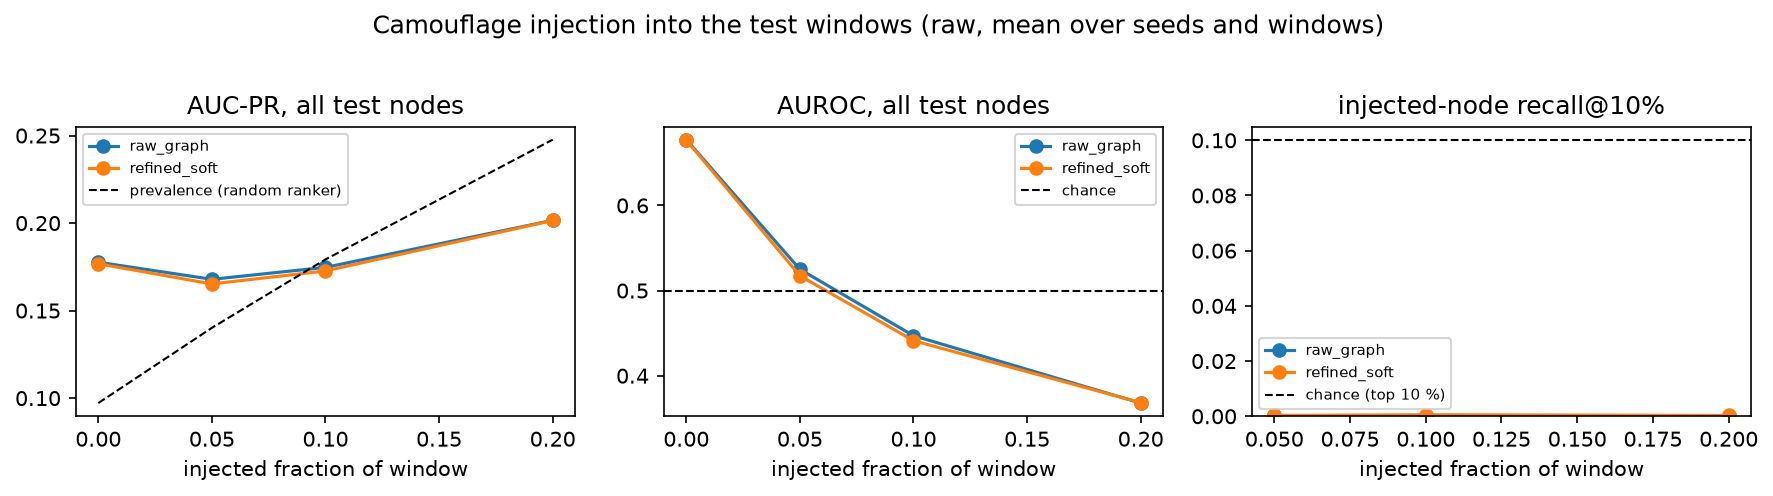
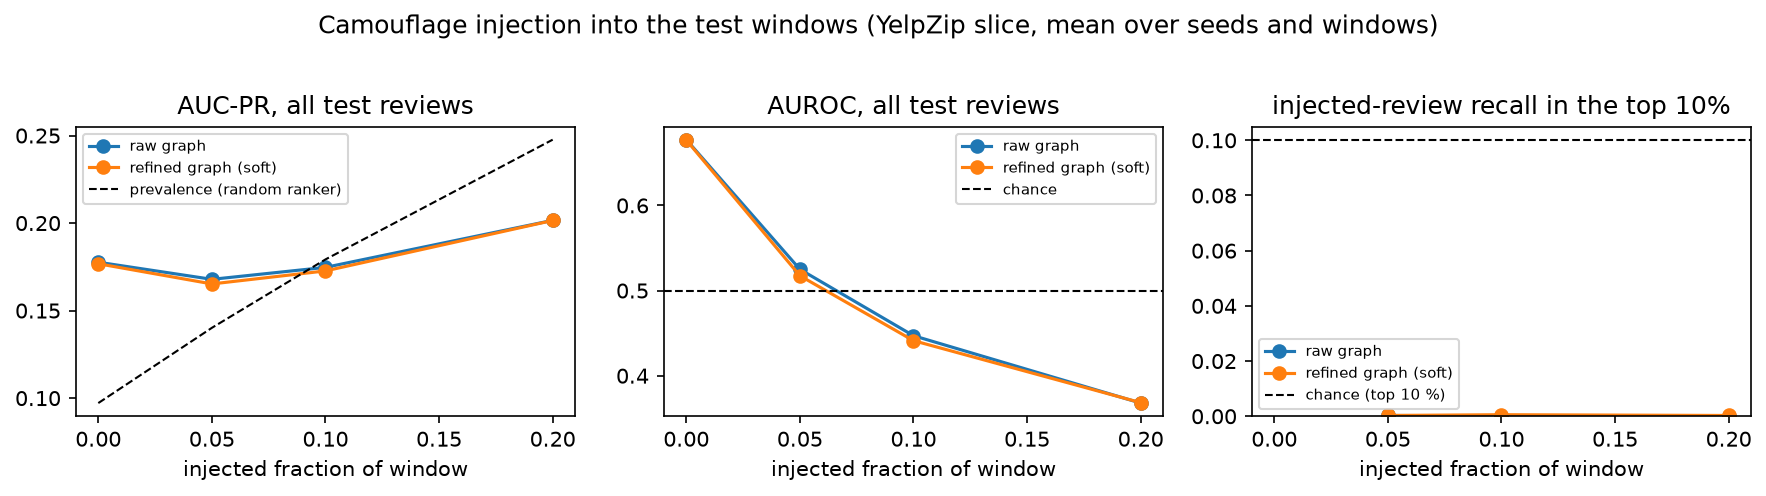
Report figures, README and design log match the final report
- Figures used in the report: reader-facing labels (03_eda.py, 10_figures.py), the drift figure in
  threshold units with the degradation line and same-window control, the headline figure as one row,
  and the new deployment-loop figure (13_process_figure.py). Regenerated PNGs committed.
- Makefile: `figures` and `raw-all` also draw the deployment-loop figure; graph-all comment updated.
- README: intro now describes the YelpZip text track as the headline (it still said every result was
  graph-only), plus a map from each report table and figure to its output file and script.
- D23 in docs/decisions.md and AGENTS.md: the report's more cautious reading of the YelpZip monitor
  (validation window falsely flagged, LLM fields alone would also alarm, AUROC label for windows 4-5),
  the per_class quota, the promotion guard, and the corrected LLM cache counts.

diff --git a/scripts/10_figures.py b/scripts/10_figures.py
@@ -45,22 +45,36 @@ def headline(tag):
         return
     df = df[df["fold"].str.startswith("test_w")]
     df["window"] = df["fold"].str.split("_w").str[1].astype(int)
-    models = sorted(df["model"].unique())
-    fig, axes = plt.subplots(1, len(models), figsize=(4.2 * len(models), 3.4), sharey=True)
-    for ax, m in zip(np.atleast_1d(axes), models):
+    order = ["catboost", "wsage", "care", "ae"]
+    # the autoencoder uses no graph, so raw and refined coincide; it is left to the results table
+    models = [m for m in order if m in set(df["model"]) and m != "ae"] + sorted(set(df["model"]) - set(order))
+    ncol = min(len(models), 3)
+    nrow = int(np.ceil(len(models) / ncol))
+    fig, axes = plt.subplots(nrow, ncol, figsize=(4.2 * ncol, 2.9 * nrow), squeeze=False)
+    for ax, m in zip(axes.ravel(), models):
         for gname, sub in df[df["model"] == m].groupby("graph"):
             s = sub.groupby("window")["auc_pr"].agg(["mean", "std"])
-            ax.errorbar(s.index, s["mean"], yerr=s["std"].fillna(0), marker="o", capsize=3, label=gname)
-        ax.set_title(m); ax.set_xlabel("test window"); ax.set_ylabel("AUC-PR")
-        ax.legend(fontsize=8)
+            ax.errorbar(s.index, s["mean"], yerr=s["std"].fillna(0), marker="o", ms=4, capsize=3, label=GRAPH_NAMES.get(gname, gname))
+        ax.set_title(MODEL_NAMES.get(m, m)); ax.set_xlabel("test window"); ax.set_ylabel("AUC-PR")
+        ax.set_xticks(sorted(df["window"].unique())); ax.grid(alpha=0.3)
+    for ax in axes.ravel()[len(models):]:
+        ax.axis("off")
+    h, lab = axes.ravel()[0].get_legend_handles_labels()
+    fig.legend(h, lab, loc="lower center", ncol=len(lab), fontsize=8, bbox_to_anchor=(0.5, -0.08))
     proto = {"waves": "random arrival waves"}.get(df["protocol"].iloc[0], "temporal windows")
-    fig.suptitle(f"AUC-PR per test window, {' vs '.join(sorted(df['graph'].unique()))} ({tag}: {proto}, mean ± std over seeds)", y=1.02)
+    fig.suptitle(f"{DATASET.get(tag, tag)}: test AUC-PR per window, raw vs refined graphs ({proto}, mean ± std over seeds)", fontsize=10)
     fig.tight_layout(); fig.savefig(FIG / f"fig_headline_{tag}.png", dpi=150, bbox_inches="tight"); plt.close(fig)
 
 
 SCORER_COLORS = {"feature": "#1f77b4", "cosine": "#ff7f0e", "rur_profile": "#2ca02c"}
 SCORER_LABEL_OFFSET = {"feature": (-8, 8, "right"), "cosine": (8, -12, "left"), "rur_profile": (8, -12, "left")}
 MODEL_NAMES = {"wsage": "WeightedSAGE", "catboost": "CatBoost", "care": "CARE-static", "ae": "Autoencoder"}
+# reader-facing names for figure titles and legends (no internal tags)
+DATASET = {"raw": "YelpZip slice", "mat": "YelpChi.mat", "mat_waves": "YelpChi.mat, arrival waves",
+           "mat_lvl0.2": "YelpChi.mat, 20% injection"}
+GRAPH_NAMES = {"raw_graph": "raw graph", "refined_soft": "soft", "refined_softrank": "softrank",
+               "refined_hard_tau0.5": "hard (τ = 0.5)"}
+SCORER_NAMES = {"feature": "feature link model", "cosine": "feature cosine", "rur_profile": "user profile"}
 
 
 def scorer_curve(tag):
@@ -164,9 +178,10 @@ def scorer_bar(tag="mat_waves", text_source="raw"):
             ax.plot(r.auc_global, r.mean_diff, marker=mk, ms=8, mfc="white", mec=c, mew=1.5, ls="none")
             ax.errorbar(r.auc_fraud_centred, r.mean_diff, yerr=[[r.mean_diff - r.ci95_low], [r.ci95_high - r.mean_diff]],
                         marker=mk, ms=8, color=c, capsize=3, ls="none")
-            below = r.scorer == "rur_profile"
-            ax.annotate(r.scorer, (r.auc_fraud_centred, r.ci95_low if below else r.ci95_high),
-                        xytext=(0, -4 if below else 4), textcoords="offset points", fontsize=7, ha="center",
+            # label placement: feature to the upper left, cosine to the upper right, user profile below right
+            dx, ha, below = {"feature": (-3, "right", False), "cosine": (3, "left", False)}.get(r.scorer, (4, "left", True))
+            ax.annotate(SCORER_NAMES.get(r.scorer, r.scorer), (r.auc_fraud_centred, r.ci95_low if below else r.ci95_high),
+                        xytext=(dx, -4 if below else 4), textcoords="offset points", fontsize=7, ha=ha,
                         va="top" if below else "bottom")
             rows.append({"model": m, "scorer": r.scorer, "auc_global": r.auc_global,
                          "auc_fraud_centred": r.auc_fraud_centred, "gain": r.mean_diff,
@@ -180,13 +195,13 @@ def scorer_bar(tag="mat_waves", text_source="raw"):
         ax.axhline(0, color="grey", ls="--", lw=1)
         ax.grid(alpha=0.3, lw=0.5)
         ax.set_title(MODEL_NAMES.get(m, m))
-        ax.set_xlabel("edge AUC on R-S-R / R-T-R, edges touching a fraud node")
+        ax.set_xlabel("fraud-centred edge AUC on R-S-R / R-T-R")
         ax.set_ylabel("AUC-PR gain over raw graph")
     handles = [Line2D([], [], color="k", lw=2, marker="o", label="noisy oracle (simulated), 95% CI"),
                Line2D([], [], color="grey", marker="s", ls="none", label="real scorer at fraud-centred AUC"),
                Line2D([], [], color="grey", marker="s", mfc="white", ls="none", label="same scorer at global AUC")]
     np.atleast_1d(axes)[0].legend(handles=handles, fontsize=7, loc="upper left", bbox_to_anchor=(0.1, 1.0))
-    fig.suptitle(f"Reweighting gain vs edge quality around fraud nodes ({tag}, paired 95% CI over seeds)", y=1.02)
+    fig.suptitle(f"Re-weighting gain vs edge AUC around fraud reviews ({DATASET.get(tag, tag)}, paired 95% CI over seeds)", y=1.02)
     fig.tight_layout(); fig.savefig(FIG / f"fig_scorer_bar_{tag}.png", dpi=150, bbox_inches="tight"); plt.close(fig)
 
     out = pd.DataFrame(rows)
@@ -227,18 +242,32 @@ def drift(tag):
     m = read(f"drift_monitor_{tag}.csv")
     if m is None:
         return
+    # A window is flagged when PSI or KS exceeds its calibrated threshold, so plot each statistic as a
+    # multiple of its threshold (1 = flag line); the same-window control is dashed when it exists.
+    sw = read(f"drift_monitor_{tag}_samewin.csv")
     fig, ax = plt.subplots(figsize=(7, 3.4)); ax2 = ax.twinx()
-    ax.plot(m["window"], m["psi_mean"], marker="o", color="C0", label=f"PSI, {m['monitor'].iloc[0]} (label-free)")
-    if "psi_thr" in m:
-        ax.plot(m["window"], m["psi_thr"], color="C0", ls=":", lw=1, label="calibrated threshold")
-    ax2.plot(m["window"], m["auc_pr"], marker="s", color="C3", label="incumbent AUC-PR (labelled)")
+    ax.plot(m["window"], m["ks_max"] / m["ks_thr"], marker="o", color="C0", label="KS / threshold")
+    # validation AUC-PR of the comparator (WeightedSAGE, raw graph) defines the degradation line
+    res = read(f"results_{tag}_raw_graph.csv")
+    val = res[(res["model"] == "wsage") & (res["fold"] == "val")]["auc_pr"].mean() if res is not None else np.nan
+    ax.plot(m["window"], m["psi_mean"] / m["psi_thr"], marker="^", color="C2", label="PSI / threshold")
+    if sw is not None:
+        ax.plot(sw["window"], sw["ks_max"] / sw["ks_thr"], marker="o", color="C0", ls="--", alpha=0.6,
+                label="KS / threshold, same-window control")
+    ax.axhline(1.0, color="k", ls=":", lw=1, label="flag line")
+    ax2.plot(m["window"], m["auc_pr"], marker="s", color="C3", label="WeightedSAGE AUC-PR (labelled)")
+    if np.isfinite(val):
+        ax2.plot([m["window"].min()], [val], marker="s", mfc="white", color="C3", ls="none", label="WeightedSAGE validation AUC-PR")
+        ax2.axhline(0.9 * val, color="C3", ls=":", lw=1.2, label="degradation line: 90% of validation")
     for w, a in zip(m["window"], m["alarm"]):
         if a:
-            ax.axvline(w, color="k", alpha=0.15, lw=6)
-    ax.set_xlabel("window"); ax.set_ylabel("PSI"); ax2.set_ylabel("AUC-PR")
+            ax.axvline(w, color="k", alpha=0.12, lw=8)
+    ax.set_xlabel("window (3 = validation, 4-7 = test)"); ax.set_ylabel("statistic / threshold"); ax2.set_ylabel("AUC-PR")
+    ax.set_xticks(m["window"])
     h1, l1 = ax.get_legend_handles_labels(); h2, l2 = ax2.get_legend_handles_labels()
-    ax.legend(h1 + h2, l1 + l2, fontsize=8, loc="lower left"); ax.set_title("Drift monitor vs labelled comparator (shaded = alarm)")
-    fig.tight_layout(); fig.savefig(FIG / f"fig_drift_{tag}.png", dpi=150); plt.close(fig)
+    fig.legend(h1 + h2, l1 + l2, fontsize=7, loc="lower center", ncol=3, bbox_to_anchor=(0.5, -0.13))
+    ax.set_title(f"{DATASET.get(tag, tag)}: text-consistency monitor vs labelled AUC-PR (shaded = alarm)", fontsize=9)
+    fig.tight_layout(); fig.savefig(FIG / f"fig_drift_{tag}.png", dpi=150, bbox_inches="tight"); plt.close(fig)
 
 
 def selftrain(tag):
@@ -293,17 +322,19 @@ def adversarial(tag, prefix="adversarial", by="graph"):
     prev = d.assign(prev=d["n_pos"] / d["n"]).groupby("level")["prev"].mean() if d is not None and {"n_pos", "n"} <= set(d.columns) else None
     fig, axes = plt.subplots(1, 3, figsize=(12, 3.2))
     for gname, sub in s.groupby(by):
-        axes[0].plot(sub["level"], sub["auc_pr"], marker="o", label=gname)
-        axes[1].plot(sub["level"], sub["auroc"], marker="o", label=gname)
-        axes[2].plot(sub["level"], sub["injected_recall"], marker="o", label=gname)
+        lab = {"raw_graph": "raw graph", "refined_soft": "refined graph (soft)"}.get(gname, MODEL_NAMES.get(gname, gname))
+        axes[0].plot(sub["level"], sub["auc_pr"], marker="o", label=lab)
+        axes[1].plot(sub["level"], sub["auroc"], marker="o", label=lab)
+        axes[2].plot(sub["level"], sub["injected_recall"], marker="o", label=lab)
     if prev is not None:
         axes[0].plot(prev.index, prev.values, "k--", lw=1, label="prevalence (random ranker)")
     axes[1].axhline(0.5, color="k", ls="--", lw=1, label="chance"); axes[2].axhline(0.10, color="k", ls="--", lw=1, label="chance (top 10 %)")
-    axes[0].set_title("AUC-PR, all test nodes"); axes[1].set_title("AUROC, all test nodes"); axes[2].set_title("injected-node recall@10%")
+    axes[0].set_title("AUC-PR, all test reviews"); axes[1].set_title("AUROC, all test reviews"); axes[2].set_title("injected-review recall in the top 10%")
     axes[2].set_ylim(bottom=0)
+    lo, hi = s["level"].min(), s["level"].max()
     for ax in axes:
-        ax.set_xlabel("injected fraction of window"); ax.legend(fontsize=7)
-    fig.suptitle(f"Camouflage injection into the test windows ({tag}, mean over seeds and windows)", y=1.02)
+        ax.set_xlabel("injected fraction of window"); ax.legend(fontsize=7); ax.set_xlim(lo - 0.01, hi + 0.01)
+    fig.suptitle(f"Camouflage injection into the test windows ({DATASET.get(tag, tag)}, mean over seeds and windows)", y=1.02)
     fig.tight_layout(); fig.savefig(FIG / f"fig_{prefix}_{tag}.png", dpi=150, bbox_inches="tight"); plt.close(fig)
 
 
@@ -351,10 +382,10 @@ def graph_loop_rounds(tag):
         axes[0].plot(s.index, s["pos"], marker="o", label=v); axes[1].plot(s.index, s["rec"], marker="o", label=v)
     axes[0].axhline(r["prior"].mean(), color="k", ls="--", lw=1, label=f"training prior ({r['prior'].mean():.3f})")
     axes[0].set_title("positive share of the pseudo-labelled set"); axes[0].set_ylabel("share"); axes[0].set_ylim(0, None)
-    axes[1].set_title("minority recall on the probe labels"); axes[1].set_ylabel("recall at the prior's top-k")
+    axes[1].set_title("minority recall on the probe labels"); axes[1].set_ylabel("fraud recall in top k (k = prior × probe size)")
     for ax in axes:
         ax.set_xlabel("self-training round"); ax.grid(alpha=0.3, lw=0.5); ax.legend(fontsize=7)
-    fig.suptitle(f"Does confidence-based self-training drift toward the normal class? ({tag}, attack scenario)", y=1.02)
+    fig.suptitle(f"Does confidence-based self-training drift toward the normal class? ({DATASET.get(tag, tag)})", y=1.02)
     fig.tight_layout(); fig.savefig(FIG / f"fig_graph_loop_rounds_{tag}.png", dpi=150, bbox_inches="tight"); plt.close(fig)
 
 

diff --git a/scripts/13_process_figure.py b/scripts/13_process_figure.py
@@ -1,0 +1,51 @@
+"""Draw the deployment loop used in report section 4.5 (no data; a schematic of the pipeline in
+src/camo/drift and src/camo/selftrain). Writes outputs/figures/fig_process.png."""
+from __future__ import annotations
+
+import matplotlib
+
+matplotlib.use("Agg")
+import matplotlib.pyplot as plt
+from _common import ROOT
+from matplotlib.patches import FancyArrowPatch, FancyBboxPatch
+
+STEPS = [
+    ("Score new reviews", "deployed model on the\ncurrent graph"),
+    ("Monitor (label-free)", "PSI / KS of text\nconsistency vs calibrated\nthresholds"),
+    ("Alarm", "2 flagged windows\nin a row"),
+    ("Analyst labels", "100 probe reviews\nevery window"),
+    ("Challenger", "retrain with quota-\nbased pseudo-labels;\nbias audit"),
+    ("Promotion guard", "promote only if it wins\nin ≥ 90% of bootstrap\nresamples of the probe"),
+]
+
+
+def main():
+    # two rows read as a cycle: top row left to right, bottom row right to left, back up to the start
+    fig, ax = plt.subplots(figsize=(7.2, 3.3))
+    ax.set_xlim(0, 3); ax.set_ylim(0, 2.05); ax.axis("off")
+    w, h = 0.8, 0.72
+    pos = [(0, 1), (1, 1), (2, 1), (2, 0), (1, 0), (0, 0)]   # (column, row) for each step
+    col = "#33507a"
+    for i, ((title, body), (c, r)) in enumerate(zip(STEPS, pos)):
+        x, y = c + 0.1, r + 0.18
+        ax.add_patch(FancyBboxPatch((x, y), w, h, boxstyle="round,pad=0.02",
+                                    fc="#fdf1e6" if i == 3 else "#eef3fb", ec=col, lw=1.2))
+        ax.text(x + w / 2, y + h - 0.16, f"{i + 1}. {title}", ha="center", va="center", fontsize=9, weight="bold")
+        ax.text(x + w / 2, y + 0.26, body, ha="center", va="center", fontsize=7.8)
+    arrow = dict(arrowstyle="-|>", mutation_scale=12, color=col, lw=1.2)
+    for c in (0, 1):                                   # top row, left to right
+        ax.add_patch(FancyArrowPatch((c + 0.9, 1.54), (c + 1.1, 1.54), **arrow))
+    ax.add_patch(FancyArrowPatch((2.5, 1.16), (2.5, 0.92), **arrow))   # alarm -> analyst labels
+    for c in (2, 1):                                   # bottom row, right to left
+        ax.add_patch(FancyArrowPatch((c + 0.1, 0.54), (c - 0.1, 0.54), **arrow))
+    ax.add_patch(FancyArrowPatch((0.5, 0.92), (0.5, 1.16), **arrow))   # promotion -> scoring
+    ax.text(0.53, 1.04, "promoted model replaces the incumbent", ha="left", va="center", fontsize=7.3, style="italic")
+    ax.text(2.47, 1.04, "alarm uses the labels so far", ha="right", va="center", fontsize=7.3, style="italic")
+    fig.tight_layout()
+    out = ROOT / "outputs" / "figures" / "fig_process.png"
+    fig.savefig(out, dpi=200, bbox_inches="tight"); plt.close(fig)
+    print(out)
+
+
+if __name__ == "__main__":
+    main()

diff --git a/scripts/03_eda.py b/scripts/03_eda.py
@@ -20,6 +20,8 @@ TAB = ROOT / "outputs" / "tables"
 FIG = ROOT / "outputs" / "figures"
 
 
+REL_NAMES = {"rur": "R-U-R", "rsr": "R-S-R", "rtr": "R-T-R"}
+
 def main():
     args = parser(__doc__).parse_args()
     cfg = load_config("base")
@@ -43,10 +45,12 @@ def main():
     fig, axes = plt.subplots(1, len(g.edges), figsize=(4 * len(g.edges), 3.2), sharey=True)
     for ax, (r, e) in zip(np.atleast_1d(axes), g.edges.items()):
         h = node_homophily(e, g.y, n)
-        for c, name in [(0, "legit"), (1, "fraud")]:
+        for c, name in [(0, "genuine"), (1, "fraud")]:
             vals = h[(g.y == c) & ~np.isnan(h)]
             ax.hist(vals, bins=20, range=(0, 1), density=True, alpha=0.6, label=f"{name} (n={vals.size})")
-        ax.set_title(f"{r.upper()}: node homophily"); ax.set_xlabel("fraction of same-label neighbours")
+        ax.set_title(f"{REL_NAMES.get(r, r.upper())}: node homophily"); ax.set_xlabel("share of same-label neighbours")
+        if ax is np.atleast_1d(axes)[0]:
+            ax.set_ylabel("density of reviews")
         ax.legend(fontsize=8)
     fig.tight_layout(); fig.savefig(FIG / f"eda_homophily_{tag}.png", dpi=150); plt.close(fig)
 
@@ -54,11 +58,11 @@ def main():
     fig, axes = plt.subplots(1, len(g.edges), figsize=(4 * len(g.edges), 3.2))
     for ax, (r, e) in zip(np.atleast_1d(axes), g.edges.items()):
         deg = np.bincount(e[0], minlength=n) + np.bincount(e[1], minlength=n)
-        for c, name in [(0, "legit"), (1, "fraud")]:
+        for c, name in [(0, "genuine"), (1, "fraud")]:
             d = np.sort(deg[g.y == c])
             ccdf = 1 - np.arange(d.size) / d.size
             ax.loglog(d + 1, ccdf, label=name)
-        ax.set_title(f"{r.upper()} degree CCDF"); ax.set_xlabel("degree + 1"); ax.legend(fontsize=8)
+        ax.set_title(f"{REL_NAMES.get(r, r.upper())} degree CCDF"); ax.set_xlabel("degree + 1"); ax.legend(fontsize=8)
     fig.tight_layout(); fig.savefig(FIG / f"eda_degree_{tag}.png", dpi=150); plt.close(fig)
 
     # 4. temporal: reviews and fraud per equal-count window (rebuilt graph only)

diff --git a/README.md b/README.md
@@ -3,21 +3,31 @@
 NUS BT4012 Fraud Analytics, AY2026/27 Sem 1, **Group 05**
 Lin Yushan Edison · Melody Goh Xueni · Rohan Jaggi · Wong Yeow Kang
 
-Fraudsters camouflage by linking to legitimate accounts so that GNN neighbourhood averaging hides
-them. On the public YelpChi graph (`YelpChi.mat`, CARE-GNN), with nodes arriving in random waves and
-fraud nodes injected with camouflaging links, we ask two questions:
+Fake reviews hide in a review graph: most of their neighbours are genuine, so a graph model that
+averages over neighbours makes them look genuine (camouflage). On real review text and dates we test
+whether an LLM can repair the graph, whether text can warn of drift without labels, whether
+label-scarce self-training collapses toward the genuine class, and what a deliberate camouflage attack
+defeats.
 
-1. **How good must a label-free edge scorer be before repairing the graph pays?** A noisy-oracle curve
-   sets the bar (gains from edge AUC ~0.6–0.7), fraud-centred edge AUC is the right yardstick, and none
-   of our label-free scorers clears it on this graph.
-2. **Can a label-free drift monitor and label-scarce self-training respond to camouflage without
-   collapsing toward the normal class?** At 20 % injection: no false alarms on clean waves, an alarm one
-   wave after the attack, and +0.03 AUC-PR over a retrained no-pseudo-label control for the
-   class-balanced variants, while naive self-training's pseudo-labels collapse toward the legit class.
+**Data.** Headline: a 71-restaurant slice of YelpZip (Rayana & Akoglu 2015; 47,532 reviews, 10.2 %
+filtered as fraud) with real text and dates, split into eight equal-count time windows. Supporting:
+the public YelpChi graph (`YelpChi.mat`, CARE-GNN), which has no text or dates, under random arrival
+waves. The proposal's YelpChi raw text release could not be obtained, so the text track runs on its
+sibling release YelpZip (`docs/decisions.md` D18-D20).
 
-The proposal planned LLM text evidence from the raw reviews (Rayana & Akoglu 2015); that release is no
-longer obtainable, so every reported result is graph-only (`docs/decisions.md` D18). The text pipeline
-is kept and runs on a synthetic fixture.
+**Findings** (report Section 6.1; numbers in `outputs/tables/`):
+
+1. Re-weighting edges with a distilled LLM scorer gives CatBoost a small gain that holds across seeds
+   (+0.005 AUC-PR) and none for the GNNs, because the scorer is at chance around fraud reviews
+   (fraud-centred edge AUC 0.44-0.50); simulated scorers on `YelpChi.mat` put the bar at about 0.6.
+2. A label-free text-consistency monitor alarms in all four degraded test windows (from window 5 once
+   graph growth is controlled for), but the one healthy window we could check was also flagged, and a
+   monitor on the LLM fields alone would have fired too (D23).
+3. Naive confidence-based self-training collapses toward the genuine class (0.07 % fraud pseudo-labels
+   against a 10.5 % prior); fixing the fraud share at the prior prevents it. On YelpZip no variant beats
+   a no-pseudo-label control, since even true labels add only +0.018 AUC-PR.
+4. Injected camouflage (edited genuine text posted from established genuine accounts) defeats every
+   label-free component; a model trained with the injected reviews' labels catches it.
 
 Repo: https://github.com/ykwong2002/bt4012-adaptive-fraud-detection
 
@@ -54,7 +64,7 @@ incomplete), about 3 h on a laptop CPU. Needs the raw release under `data/raw/ye
 | drift monitor (+ same-window control) | `uv run python scripts/07_drift.py --source raw [--same-window]` | `drift_*_raw*.csv` |
 | alarm-triggered self-training + bias audit, raw and refined graph | `uv run python scripts/08_selftrain.py --source raw [--weights data/processed/edge_scores_raw.npz]` | `selftrain_*_raw_*.csv` |
 | camouflage injection with recovery | `uv run python scripts/09_adversarial.py --source raw --recover` | `adversarial_*_raw.csv` |
-| paired intervals; figures | `uv run python scripts/12_stats.py --tag raw`, `10_figures.py --tag raw` | `stats_*_raw*.csv`, `outputs/figures/fig_*_raw*.png` |
+| paired intervals; figures | `uv run python scripts/12_stats.py --tag raw`, `10_figures.py --tag raw`, `13_process_figure.py` | `stats_*_raw*.csv`, `outputs/figures/fig_*_raw*.png`, `fig_process.png` |
 | operating point per window: reviews flagged, fraud caught, reviews checked per fraud found | `uv run python scripts/14_business.py` | `business_raw.csv` |
 
 **YelpChi graph-only track** (supporting, D11–D17): `make graph-all` runs every step below in order
@@ -75,8 +85,36 @@ Tables land in `outputs/tables/`. Every script writes `outputs/runs/<name>/run.j
 config hash, seed and wall time. `make all SMOKE=1` runs the pipeline on a 2k-node subsample in minutes.
 
 Not part of the reported results: `scripts/09b_graph_adversarial.py` (static injection into test waves,
-`make graph-adversarial`). `make all SMOKE=1 --mock` exercises the text track on the synthetic fixture
-without the raw files or an API key.
+`make graph-adversarial`). `uv run python scripts/04_llm_score.py --mock` exercises the text track's LLM step on the synthetic
+fixture without the raw files or an API key.
+
+## Where each report table and figure comes from
+
+| report item | output | script |
+|---|---|---|
+| Table 1 (dataset summary) | `eda_summary_raw.csv`, `eda_summary_mat.csv` | `03_eda.py` |
+| Table 2 (variables) | `eda_features_raw.csv`, `variables_raw.csv` | `03_eda.py`, `03b_variables.py` |
+| Table 3 (time windows) | `eda_windows_raw.csv` | `03_eda.py` |
+| Table 4 (raw vs refined graph) | `results_raw_*_summary.csv`, `stats_rewiring_raw.csv` | `06_train.py`, `12_stats.py` |
+| Table 5 (edge scorer quality) | `edge_auc_centred_raw.csv` | `05c_edge_diagnostics.py` |
+| Section 5.1 pair analysis | `distil_metrics_raw.csv`, `pair_case_study_*_raw.csv` | `05_distil_edges.py`, `05d_pair_case_study.py` |
+| Section 5.2 drift numbers | `drift_*_raw.csv`, `drift_*_raw_samewin.csv` | `07_drift.py` |
+| Table 6 (self-training bias audit) | `selftrain_*_raw_raw_graph.csv`, `stats_selftrain_raw_raw_graph.csv` | `08_selftrain.py`, `12_stats.py` |
+| Section 5.4 injection and recovery | `adversarial_*_raw.csv` | `09_adversarial.py` |
+| Section 5.5 operating point | `business_raw.csv` | `14_business.py` |
+| Table A1 (scorer curve) | `stats_rewiring_mat_waves.csv`, `scorer_curve_mat_waves.csv` | `make graph-scorers`, `12_stats.py` |
+| Table A2 (loop on `YelpChi.mat`) | `graph_loop_*_mat_lvl0.2.csv`, `stats_loop_mat_lvl0.2.csv` | `11_graph_loop.py`, `12_stats.py` |
+| Appendix C | `results_raw_raw_graph_summary.csv` | `06_train.py` |
+| Figure 1 | hand-drawn illustration, not generated | - |
+| Figure 2 (homophily) | `outputs/figures/eda_homophily_raw.png` | `03_eda.py` |
+| Figure 3 (AUC-PR per window) | `outputs/figures/fig_headline_raw.png` | `10_figures.py` |
+| Figure 4 (drift monitor) | `outputs/figures/fig_drift_raw.png` | `10_figures.py` |
+| Figure 5 (injection) | `outputs/figures/fig_adversarial_raw.png` | `10_figures.py` |
+| Figure 6 (deployment loop) | `outputs/figures/fig_process.png` | `13_process_figure.py` |
+| Figure A1 (scorer bar) | `outputs/figures/fig_scorer_bar_mat_waves.png` | `10_figures.py` |
+| Figure A2 (bias audit per round) | `outputs/figures/fig_graph_loop_rounds_mat_lvl0.2.png` | `10_figures.py` |
+
+Tables are in `outputs/tables/` unless a path is given.
 
 ## Layout
 

diff --git a/AGENTS.md b/AGENTS.md
@@ -21,14 +21,16 @@ track. The claim, in four parts (numbers in `docs/decisions.md` D20 and D16/D17)
    CatBoost +0.005 AUC-PR (interval excludes 0), nothing for the GNNs. Its fraud-centred edge AUC is
    0.50, below the ~0.6 bar the `.mat` noisy-oracle curve sets; the right yardstick is fraud-centred,
    not global, edge AUC (D15). Two datasets, one explanation.
-2. **The label-free text-consistency monitor works on real drift.** It flags every degraded test window
-   with 0 false alarms and latency 0 while the feature monitor flags none, and survives the same-window
-   control. On `.mat` it alarms one wave after a 20 % injection and misses 5–10 %.
-3. **Confidence-based self-training does collapse toward the normal class, and quotas fix it**
-   (professor Q2): naive pseudo-labels end at 0.07 % (YelpZip) / 1.9 % (`.mat`) positives, per_class and
-   prior_match hold the prior. On `.mat` the non-collapsing variants recover +0.03 over the control; on
-   YelpZip's natural drift there is no headroom (oracle +0.018) and the promotion guard blocks ~90 % of
-   challengers, which is the guard working.
+2. **The label-free text-consistency monitor is sensitive, but not shown to be reliable.** It alarms in
+   every degraded test window while the feature monitor flags none (from window 5 under the same-window
+   control), but the healthy validation window is also flagged and a monitor on the LLM fields alone
+   would have fired too (D23). On `.mat` it alarms one wave after a 20 % injection and misses 5–10 %.
+3. **Confidence-based self-training does collapse toward the normal class, and a fixed quota stops it**
+   (professor Q2): naive pseudo-labels average 0.07 % (YelpZip) / end at 1.9 % (`.mat`) positives;
+   prior_match holds the prior by construction, while per_class holds it only on average (10 of 15
+   YelpZip retrains flagged). On `.mat` the non-collapsing variants recover +0.03 over the control; on
+   YelpZip's natural drift there is no headroom (oracle +0.018), and the promotion guard blocked 21 of
+   the 31 challengers that won on the probe set, so whether blocking helped cannot be told.
 4. **Camouflage that copies legitimate text and users defeats the label-free loop.** Injected recall
    ≈ 0, the monitor cannot separate the attack from natural drift, nothing is promoted; the oracle with
    the new labels reaches 0.78, so the labels an analyst provides must feed training, not only promotion.

diff --git a/docs/decisions.md b/docs/decisions.md
@@ -2,6 +2,19 @@
 
 Each entry: what we decided, why, what we rejected. Add to the top.
 
+## D23 2026-11-18 The report's reading of the YelpZip results supersedes D20(b); cache counts corrected
+The final report reads the text-track monitor more cautiously than D20(b). (1) The validation window
+(window 3) is flagged, and the window-4 alarm relies on that flag, so it is a false flag rather than
+"0 false alarms" (`drift_monitor_raw.csv`). (2) A monitor on the LLM fields alone also flags windows 4-7
+(KS 0.08-0.13 against 0.05, `drift_signals_raw.csv`), so the alarm cannot be credited to text
+consistency h itself. (3) Under the same 90 % rule on AUROC, only windows 6 and 7 count as degraded
+(`results_raw_raw_graph_summary.csv`), so the AUC-PR degradation label is generous for windows 4-5.
+Also: D20's "47,512 review fields and 18,480 pair judgements" were batch-only counts; the committed
+caches hold 47,532 review rows and 18,500 pair rows (18,000 judgements + 500 swapped-order re-tests).
+D20's "distillation loses nothing" is softened by D22 (LLM 0.55 against distilled 0.50 fraud-centred
+AUC on R-S-R). The EM prior estimate (Saerens) sits at its 0.0001 floor in 68 of 75 YelpZip retrains
+(`selftrain_windows_raw_raw_graph.csv`), so it is not informative on this slice.
+
 ## D22 2026-11-18 Why the text scorer is at chance around fraud: the signal is per review, not per edge
 `05d_pair_case_study.py` splits the 18,000 cached LLM pair judgements (prompt v2) by pair type
 (`pair_case_study_*_raw.csv`). (1) The LLM judgement itself is at chance around fraud nodes
